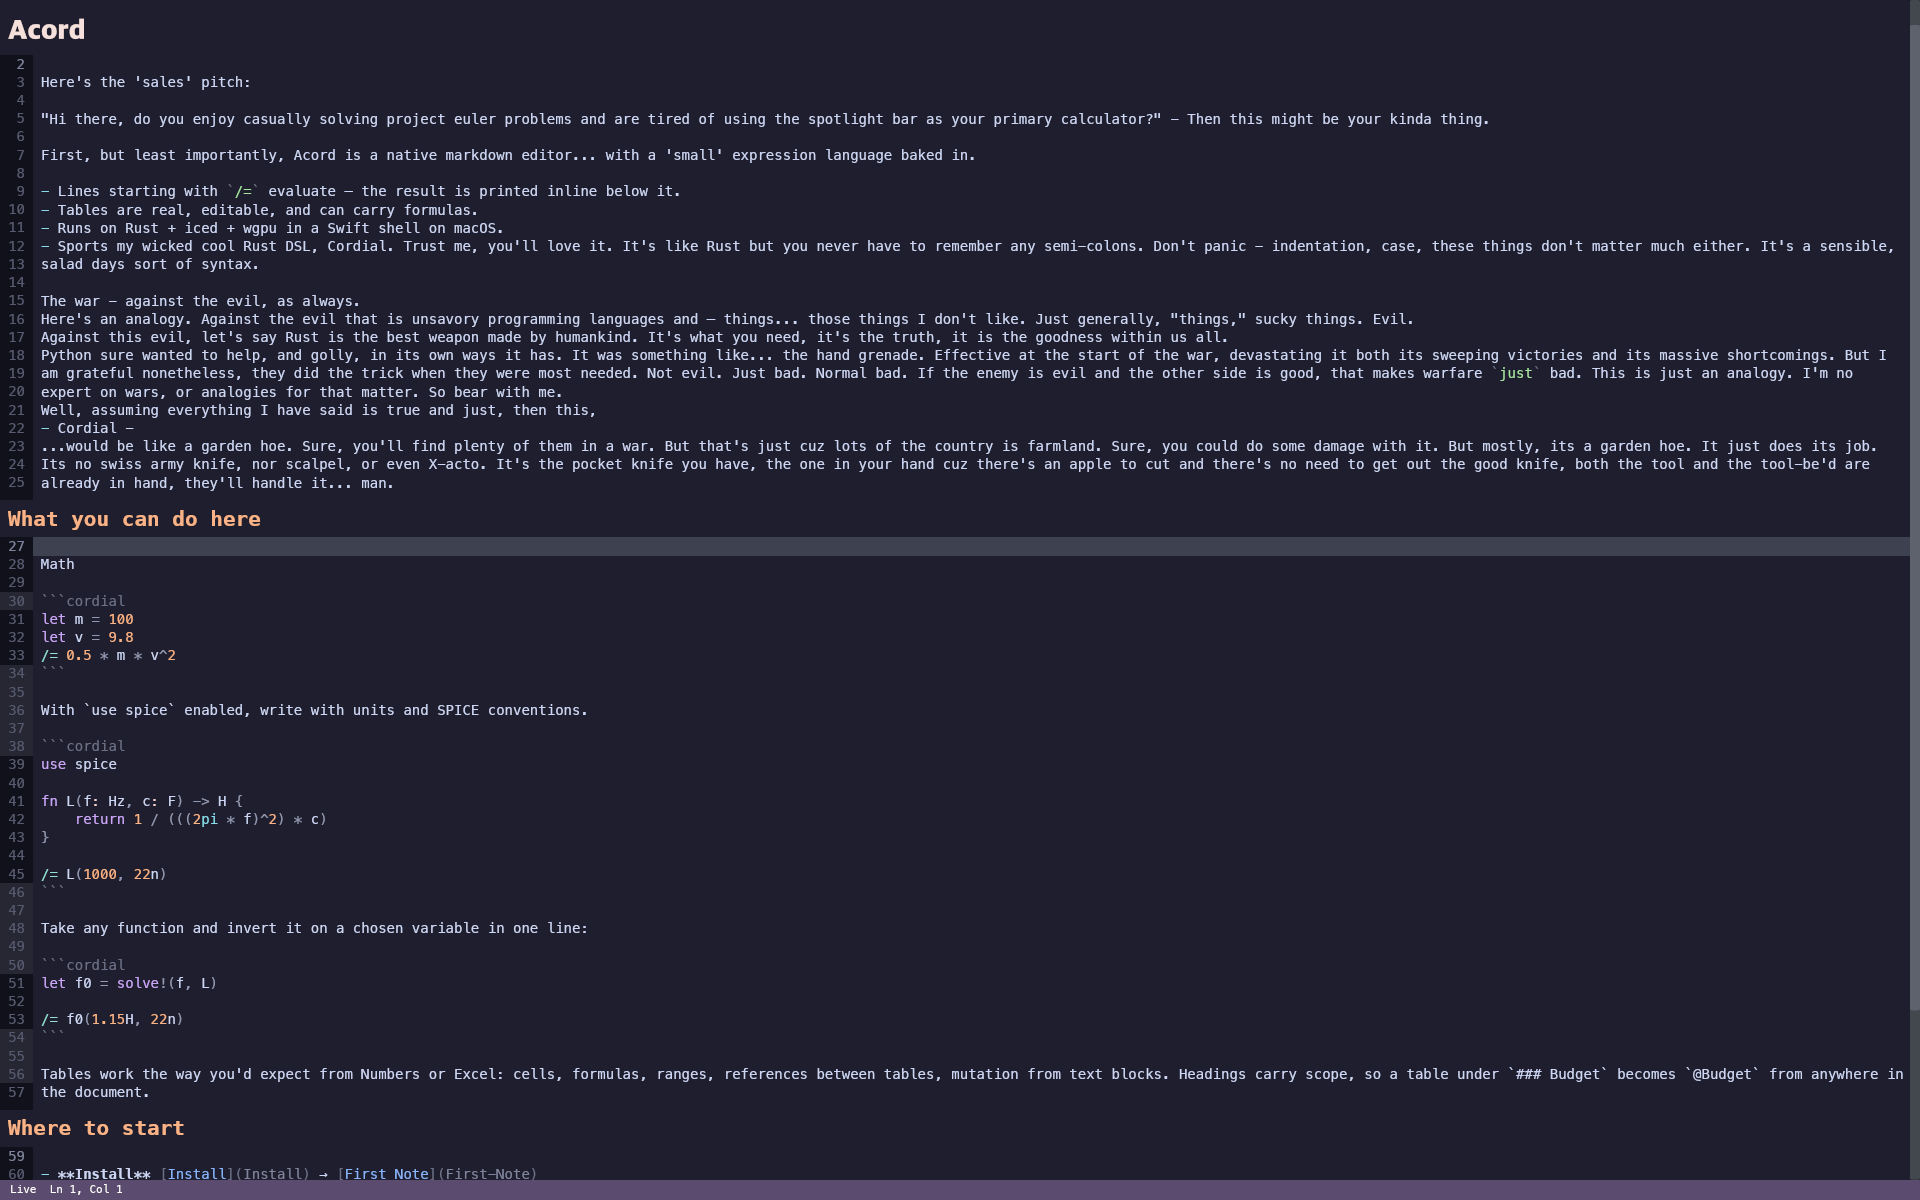
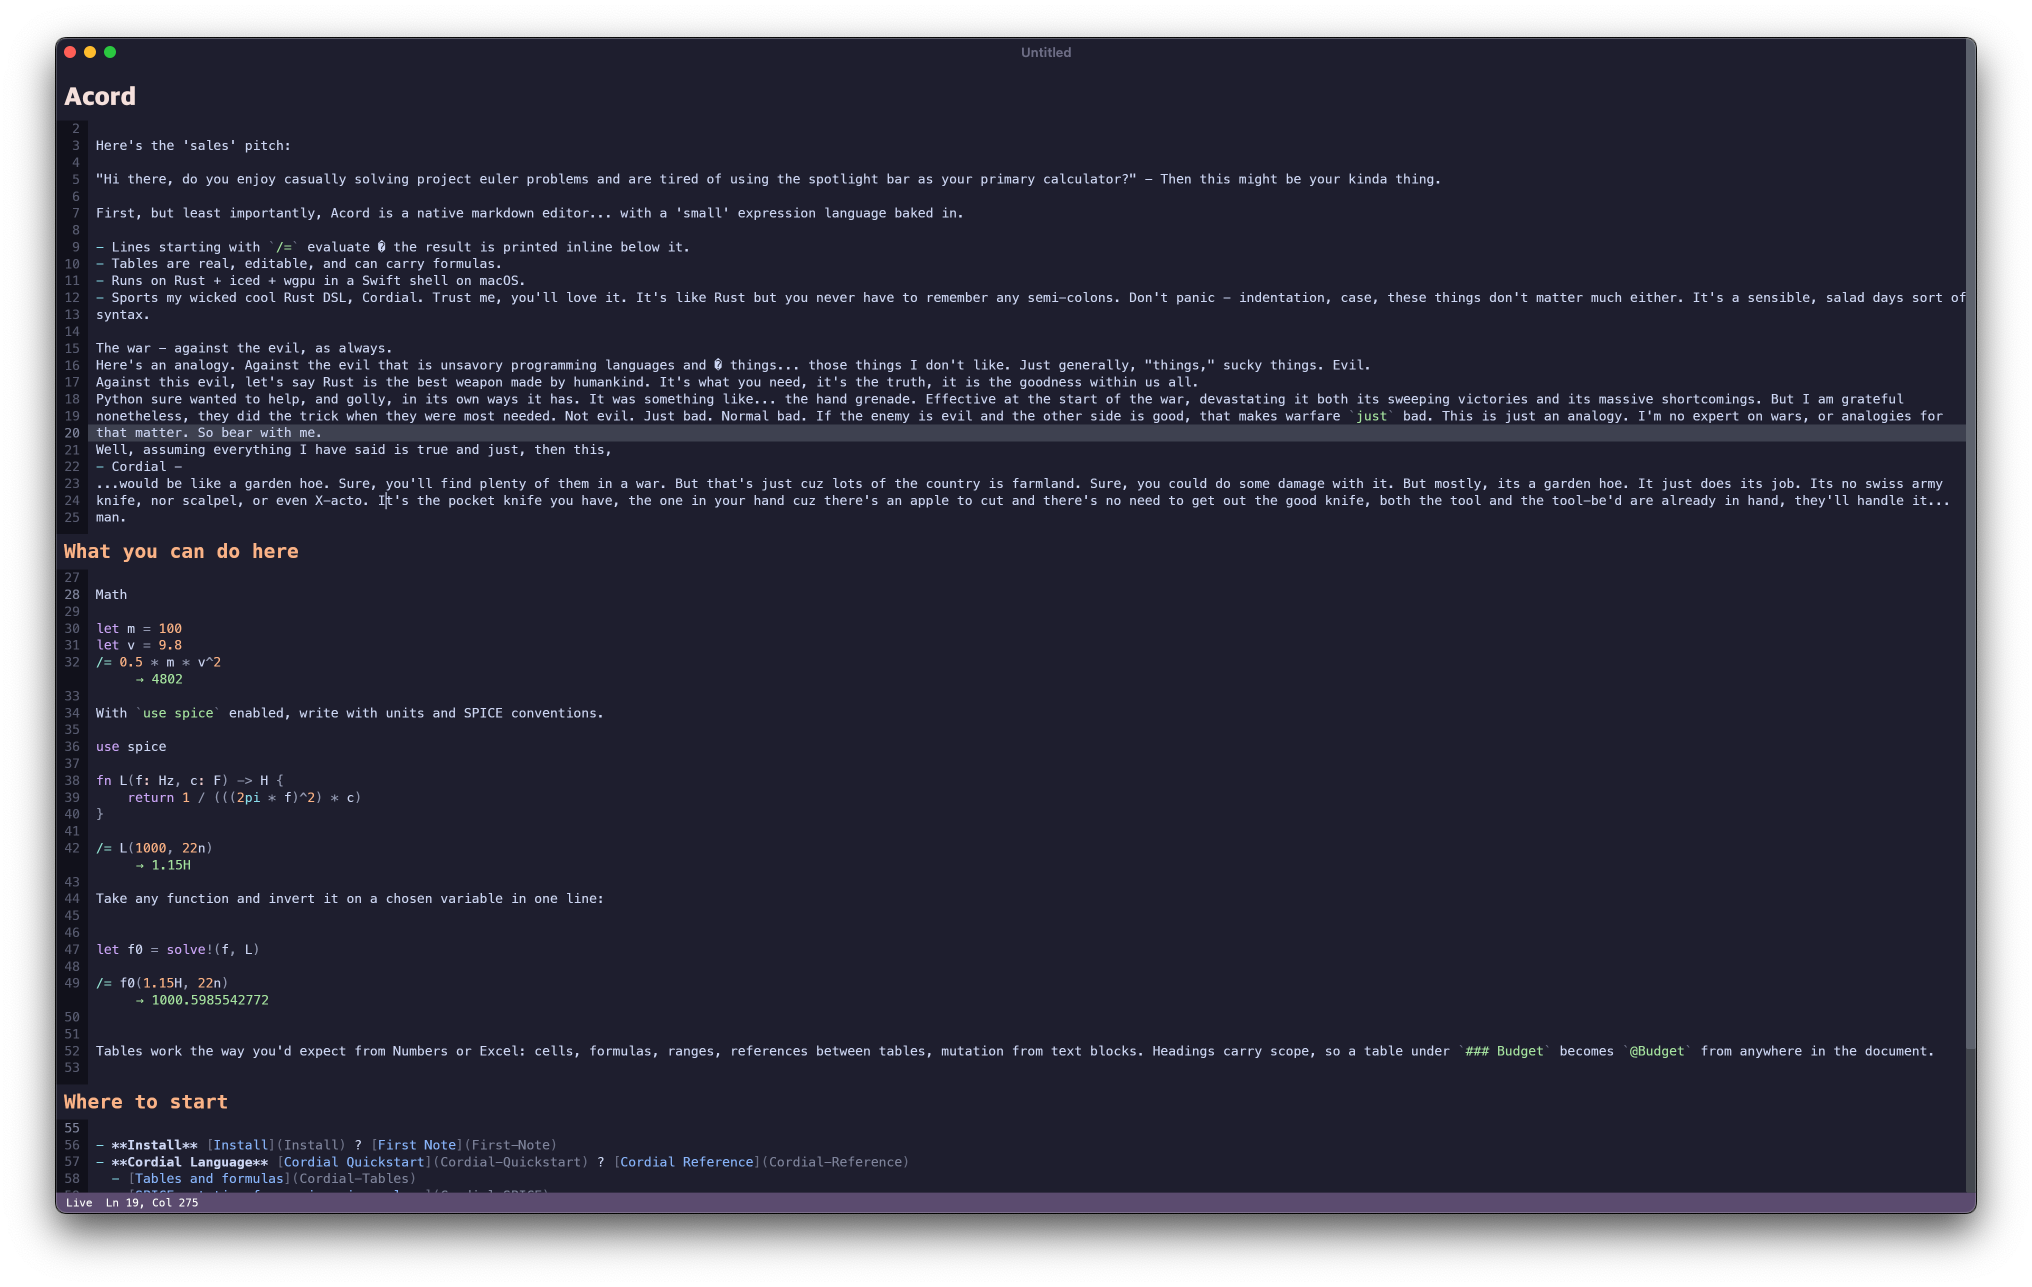
whoops

diff --git a/viewport/src/handle.rs b/viewport/src/handle.rs
@@ -24,10 +24,19 @@ impl clipboard::Clipboard for MacClipboard {
         // clipboard sources produce stray bytes when pbpaste coerces their
         // format to plain text, and a single bad byte would otherwise drop
         // the whole paste.
+        //
+        // Line-ending normalisation: web pages, Discord, and some cross-
+        // platform apps keep `\r\n` in the pasteboard. Iced's buffer and
+        // our own gutter line counter disagree about whether `\r` is its
+        // own row, which drifts the gutter against the cursor on every
+        // paste. Collapse every CR to LF before handing the text upward.
         std::process::Command::new("pbpaste")
             .output()
             .ok()
-            .map(|o| String::from_utf8_lossy(&o.stdout).into_owned())
+            .map(|o| {
+                let s = String::from_utf8_lossy(&o.stdout).into_owned();
+                s.replace("\r\n", "\n").replace('\r', "\n")
+            })
     }
 
     fn write(&mut self, _kind: clipboard::Kind, contents: String) {